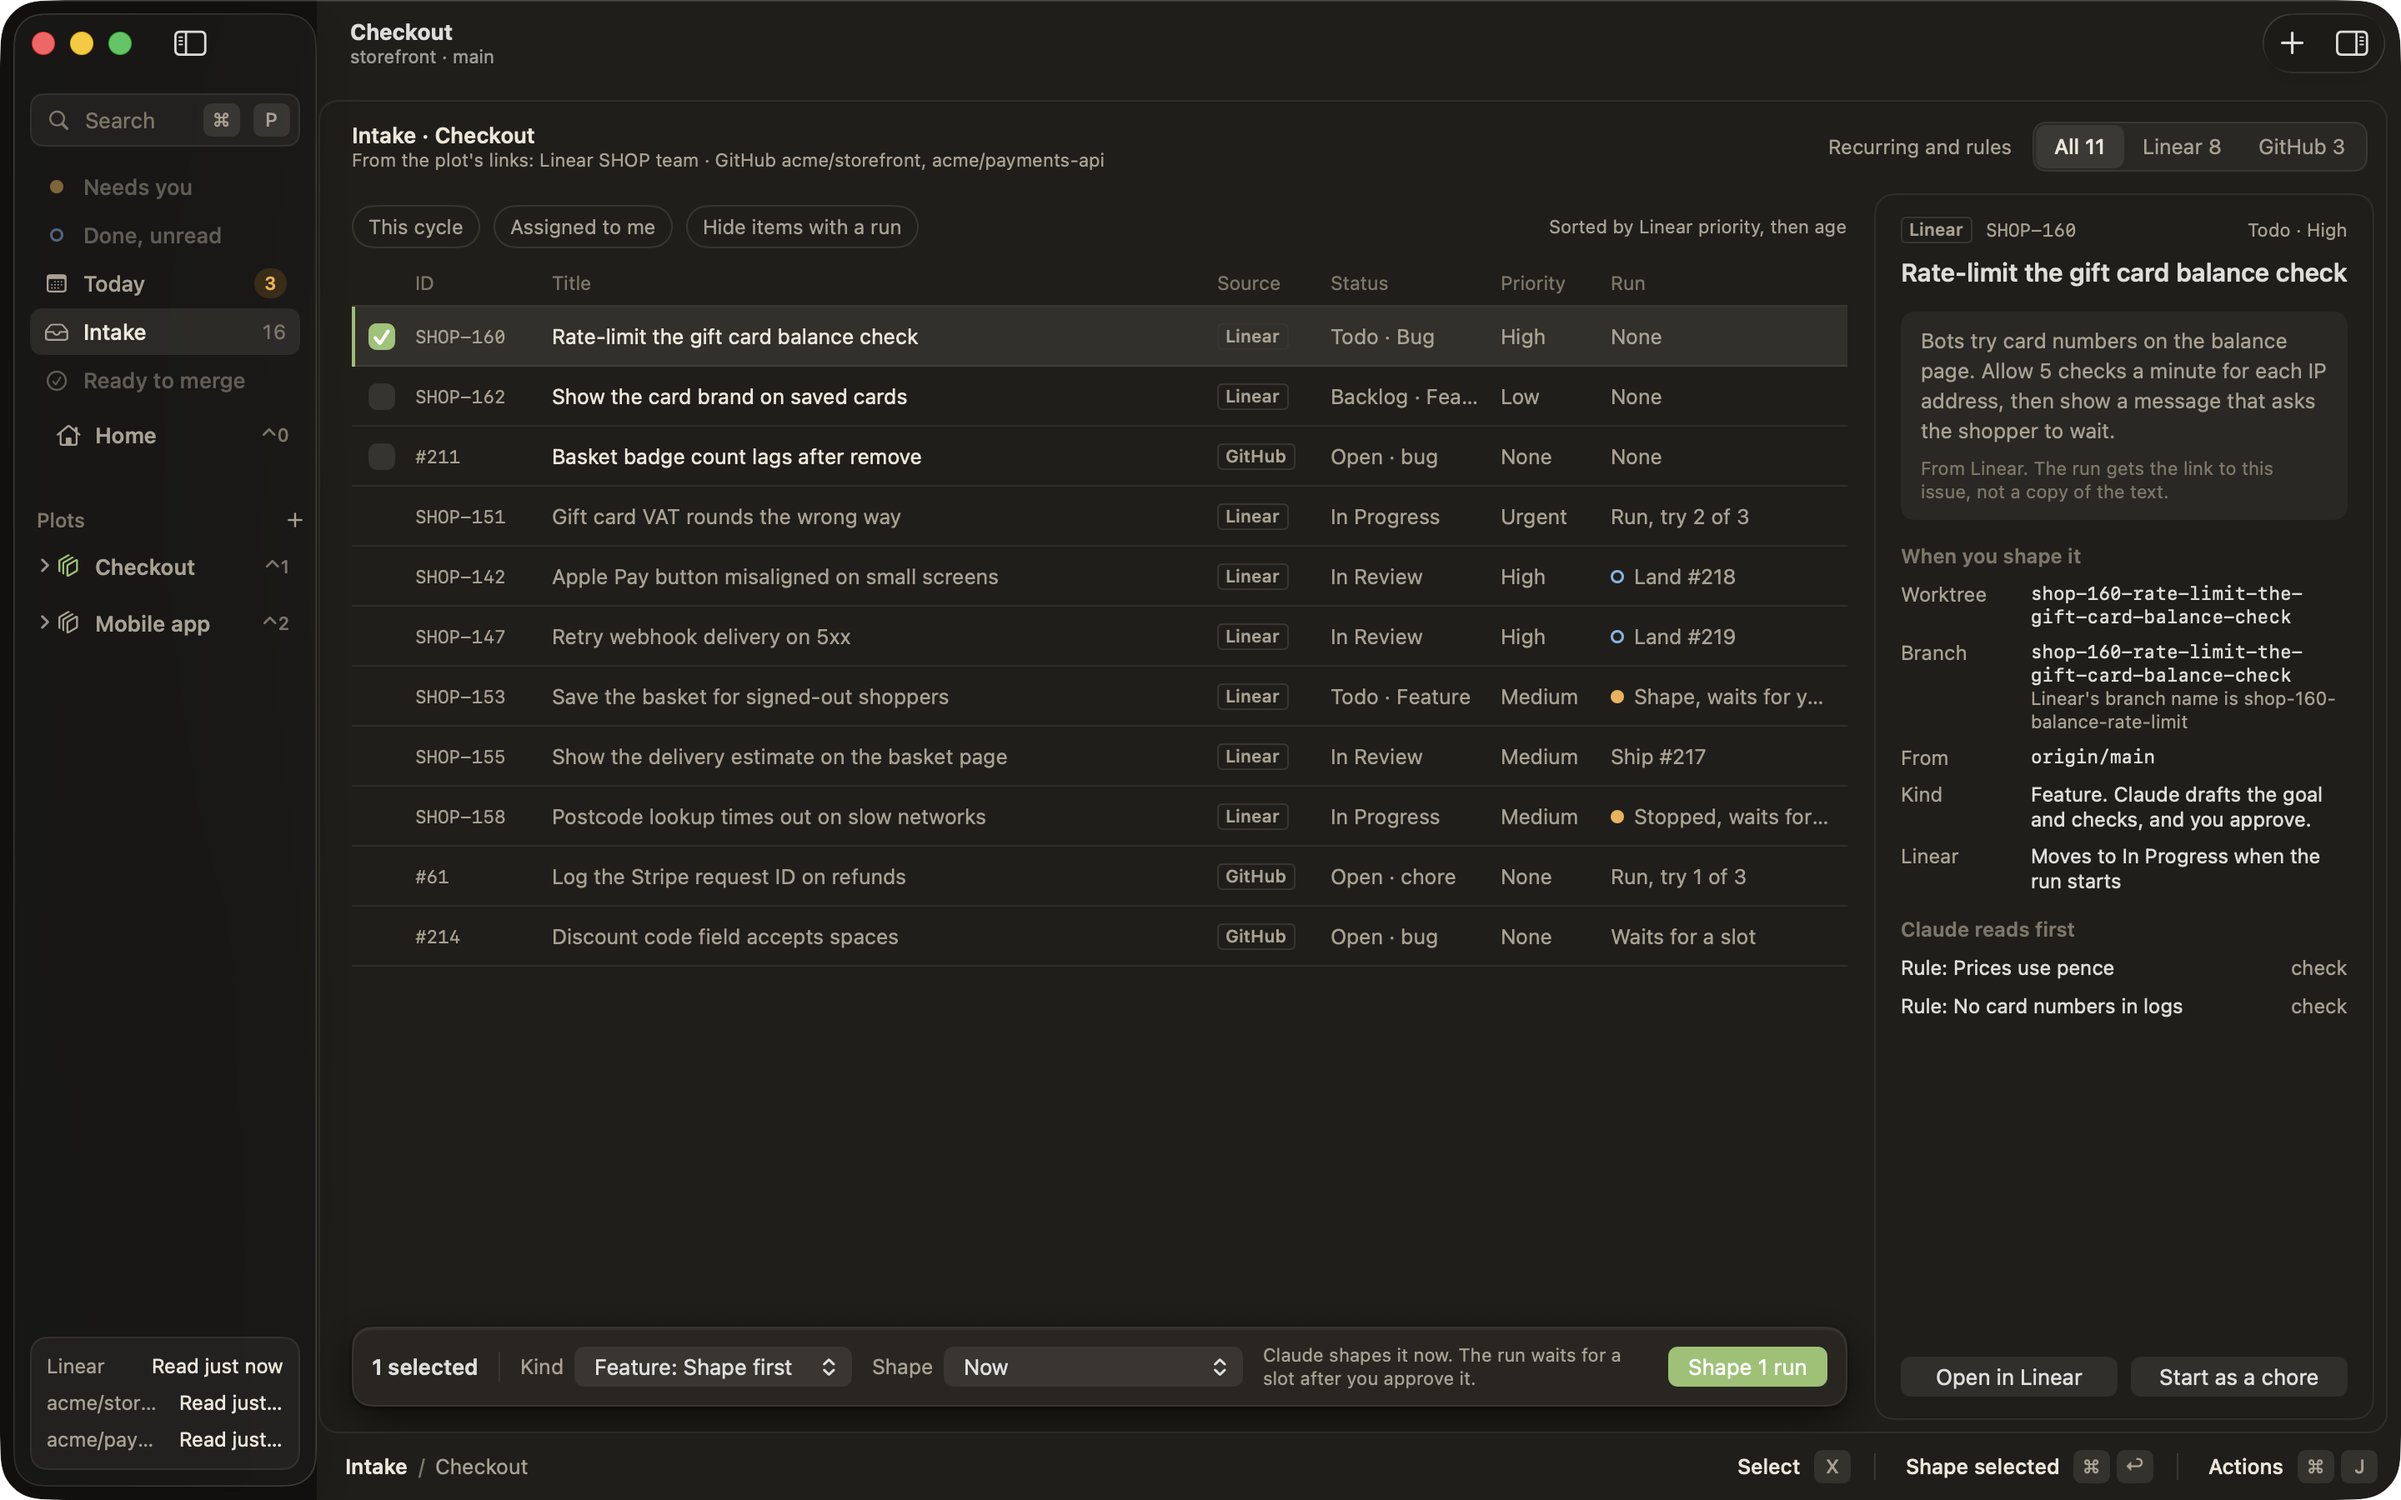
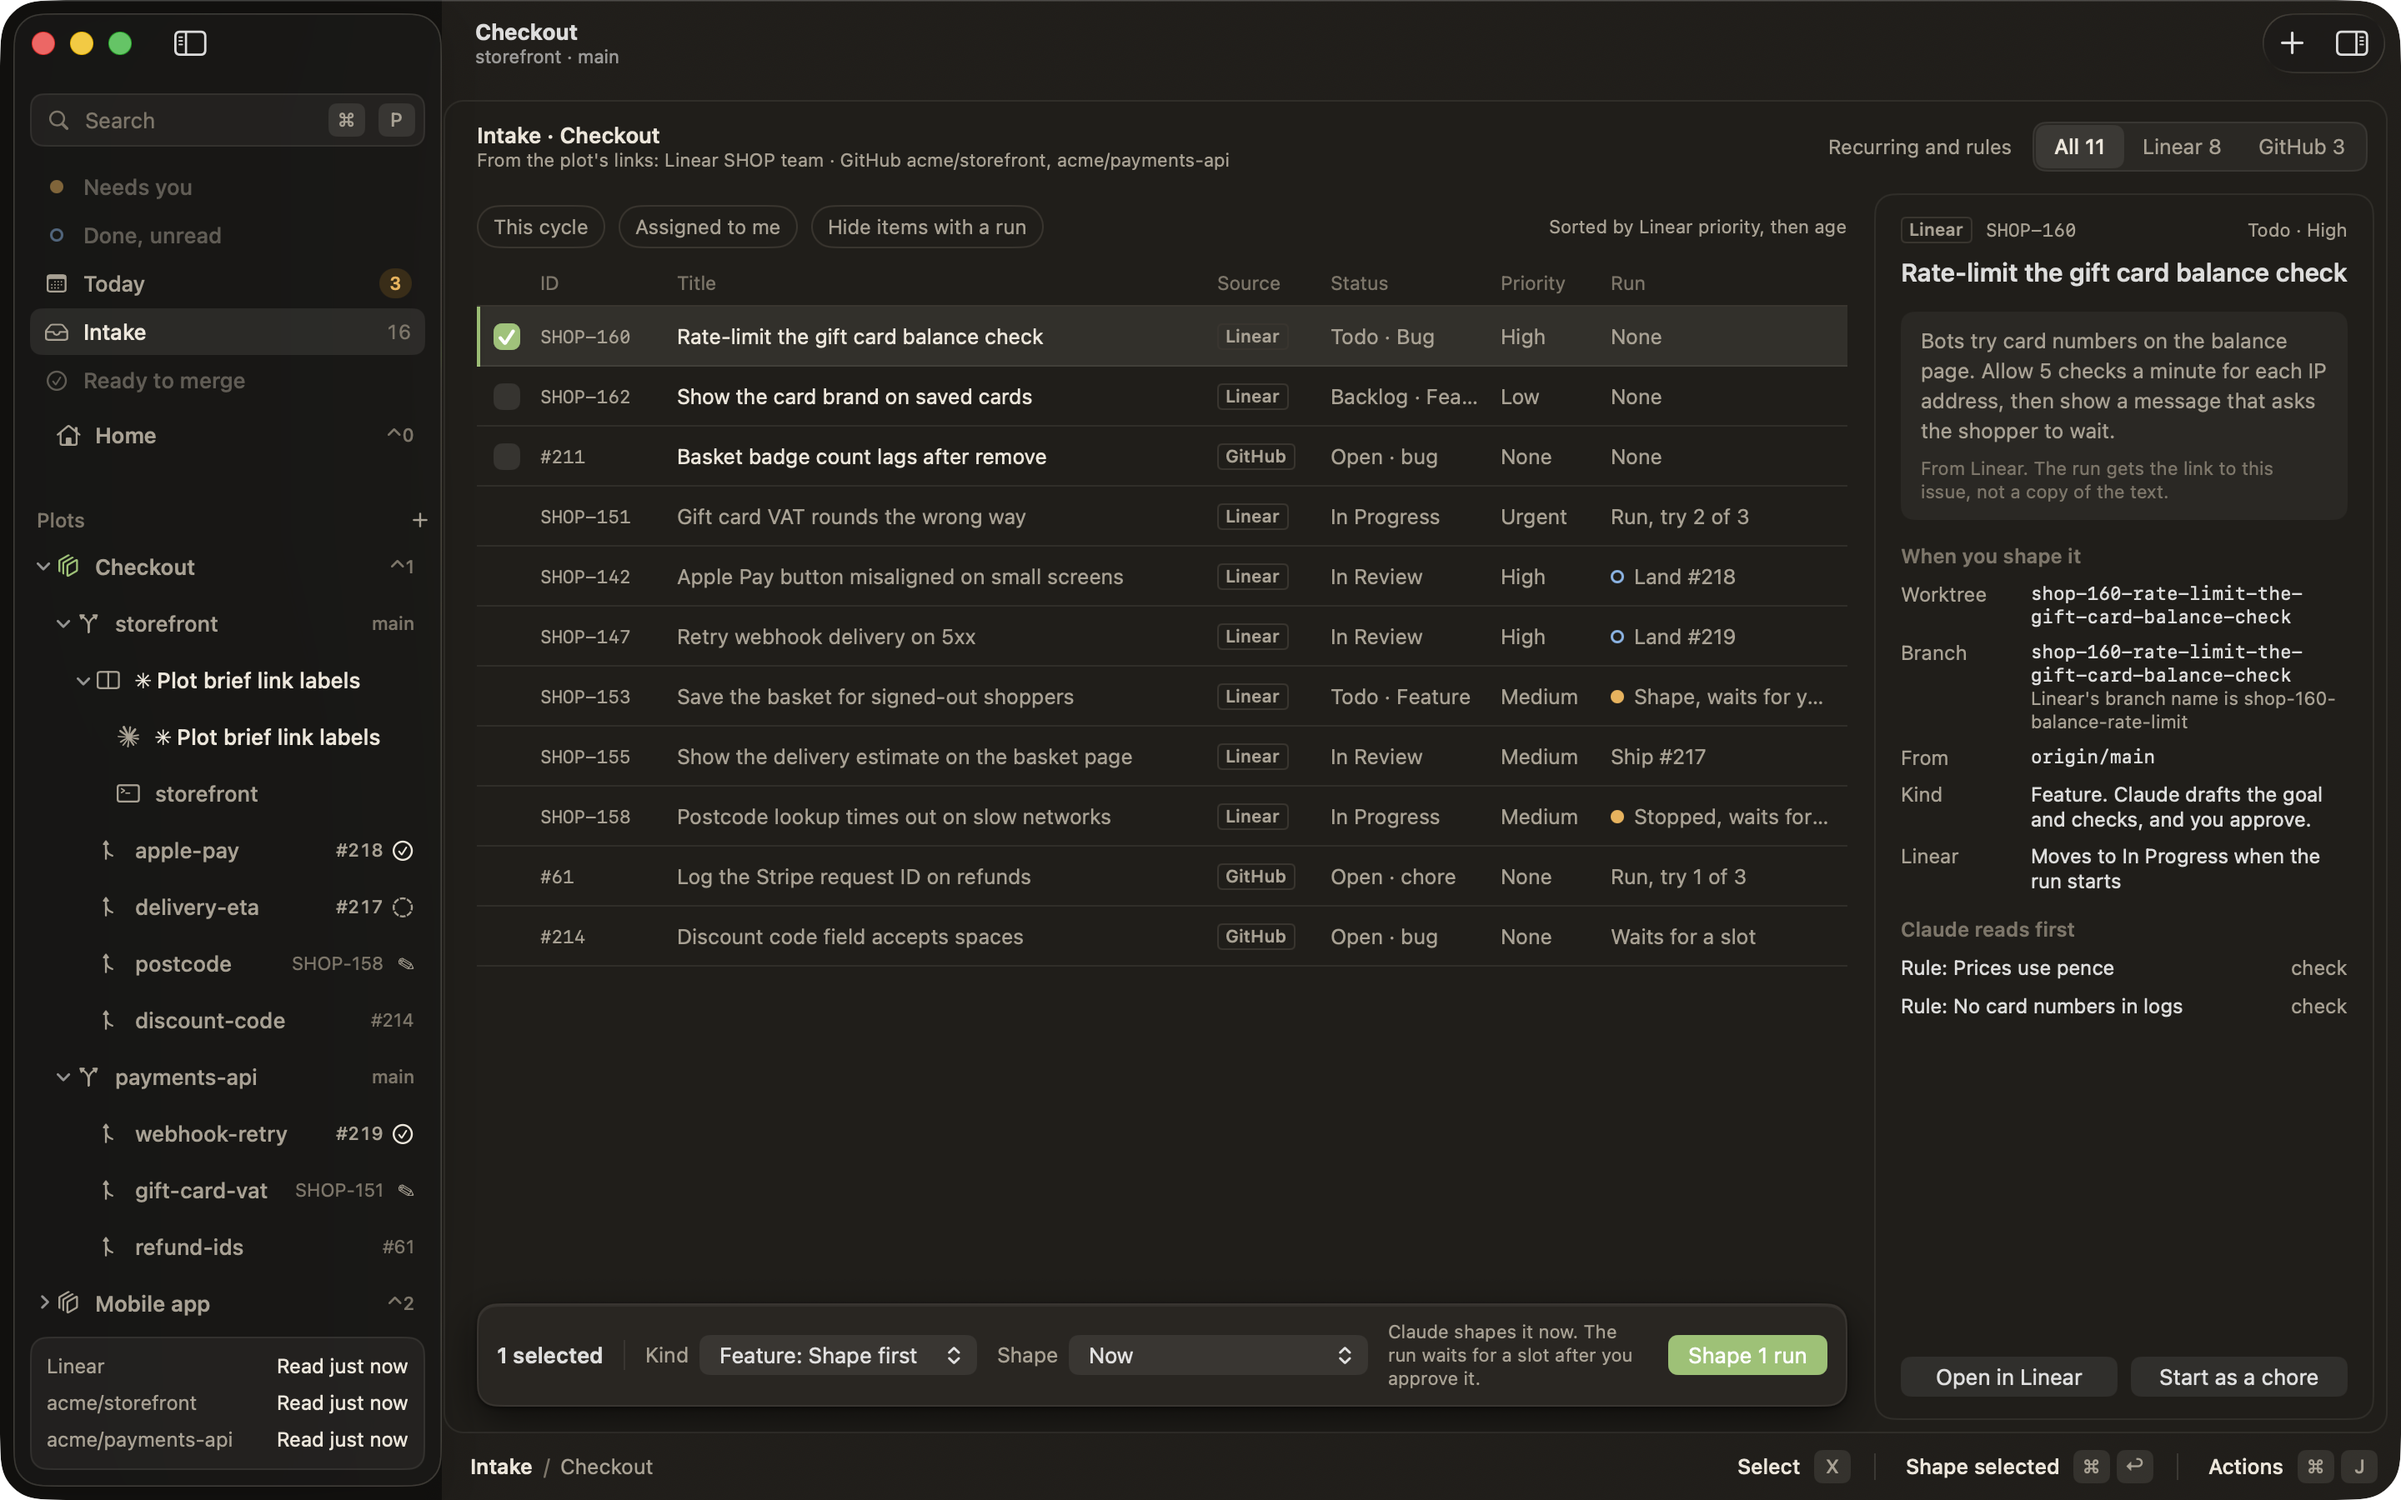
readme-shots: Intake at the usual sidebar width

diff --git a/app/Sources/LoamDriver/ReadmeShotStage.swift b/app/Sources/LoamDriver/ReadmeShotStage.swift
@@ -997,13 +997,8 @@ extension Scenarios {
         try await shot("hero-day")
         await appearance(.darkAqua)
 
-        // Intake of Checkout: Linear and GitHub issues, one selected, with its detail. The sidebar takes its usual
-        // width here: at the wider sidebar of the other shots, the labels of the bar wrap a letter to a line. The tree
-        // of Checkout closes, so its rows do not show cut names.
-        let split = host.window.contentViewController as? NSSplitViewController
-        let sidebar = split?.splitViewItems.first?.viewController.view.frame.width ?? 265
-        split?.splitView.setPosition(190, ofDividerAt: 0)
-        _ = AccessibilityProbe.shared.discloseRow("plot-\(stage.checkout)", open: false)
+        // Intake of Checkout: Linear and GitHub issues, one selected, with its detail, and the bar of the checked row
+        // at the sidebar width of the other shots.
         await model.showIntake(plot: stage.checkout)
         let key = stage.intakeKey
         try await app.waitUntil("the intake lists Linear and GitHub issues", timeout: 60) {
@@ -1020,8 +1015,6 @@ extension Scenarios {
         await appearance(.darkAqua)
         try app.click("intake-check-\(key)")
         try await app.waitUntil("the bar goes") { !app.exists("intake-batch") }
-        split?.splitView.setPosition(sidebar, ofDividerAt: 0)
-        _ = AccessibilityProbe.shared.discloseRow("plot-\(stage.checkout)", open: true)
 
         // A Shape draft at the desk.
         let draft = try run("savedBasket")
